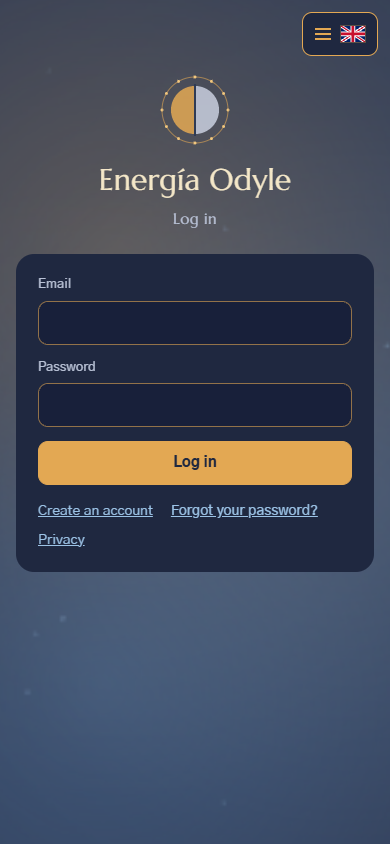
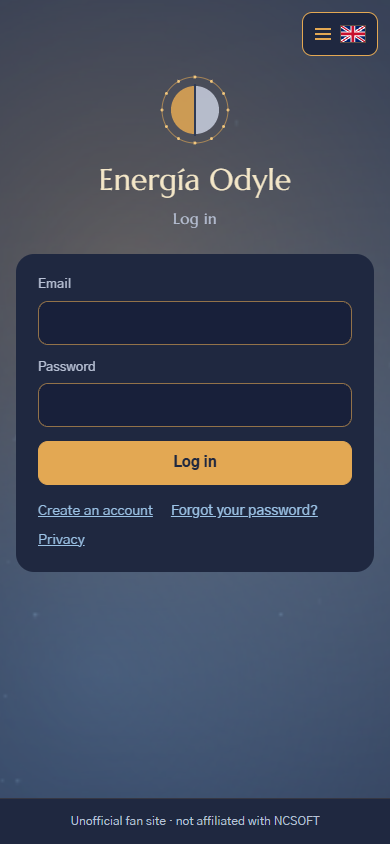
fix(ui): marcas SVG en idioma y ficha, relojes del móvil sin recortes y aviso de fans en las pantallas de cuenta
- Idioma elegido: trazo SVG creado con el DOM en lugar de «✓»; la ficha de jugador cierra con el icono «cerrar» de icons.js en lugar de «✕».
- Tira de relojes de 390 px: «Diario» como etiqueta corta (en/it/pt), el reloj del evento ocupa el hueco restante y su nombre puede ir en dos líneas; ninguna etiqueta ni valor se recorta.
- auth y privacidad: franja «Sitio de fans no oficial · no afiliado a NCSOFT», traducida y siempre visible al pie.

Changed region(s): [[0.0, 0.9242, 1.0, 1.0]]

diff --git a/index.html b/index.html
@@ -104,10 +104,15 @@
   .clock-strip { position: sticky; top: 0; z-index: 14; display: flex; overflow-x: auto; overscroll-behavior-x: contain; scrollbar-width: none;
     padding: 8px 16px; background: var(--bg-2); border-bottom: 1px solid color-mix(in srgb, var(--gold) 18%, transparent); }
   .clock-strip::-webkit-scrollbar { display: none; }
-  /* all three clocks fit at 390 px: they share the width (112 px at least), labels may truncate, values never clip */
-  .clock-strip .clocks { flex: 1 1 auto; min-width: 0; gap: 6px; }
-  .clock-strip .ck { flex: 1 1 112px; min-width: 112px; padding: 0 10px; }
-  .clock-strip .ck .k { max-width: 100%; letter-spacing: .08em; }
+  .ck .k-short { display: none; }
+  /* all three clocks fit at 390 px and no label is cut: the daily reset says «Diario», the event clock takes the room
+     left by the other two and its name may wrap onto a second line; values never clip */
+  .clock-strip .clocks { flex: 1 1 auto; min-width: 0; gap: 6px; align-items: stretch; }
+  .clock-strip .ck { flex: 0 0 auto; min-width: 0; height: auto; padding: 4px 10px; }
+  .clock-strip .ck[data-clock="event"] { flex: 1 1 0; }
+  .clock-strip .ck .k { max-width: none; overflow: visible; white-space: normal; text-overflow: clip; overflow-wrap: anywhere; line-height: 1.1; letter-spacing: .06em; }
+  .clock-strip .ck .k-long { display: none; }
+  .clock-strip .ck .k-short { display: inline; }
   .clock-strip .ck .v { font-size: 17px; }
   /* «En curso» stays for screen readers; on the strip the value turns to the accent instead */
   .clock-strip .ck .v .live { position: absolute; width: 1px; height: 1px; overflow: hidden; clip-path: inset(50%); white-space: nowrap; }
@@ -831,7 +836,7 @@
   <div class="bar-right" id="bar-right">
     <div class="clocks" id="clocks">
       <button type="button" class="ck" data-clock="refill"><small class="k" id="ck-refill-k">+30 OD en</small><b class="v" id="next-tick">—</b></button>
-      <button type="button" class="ck reset" data-clock="daily"><small class="k">Reinicio diario</small><b class="v">—</b></button>
+      <button type="button" class="ck reset" data-clock="daily"><small class="k"><span class="k-long">Reinicio diario</span><span class="k-short">Diario</span></small><b class="v">—</b></button>
       <button type="button" class="ck" data-clock="event"><small class="k">Próximo evento</small><b class="v"><span class="live" hidden>En curso</span><span class="t">—</span></b></button>
     </div>
     <button type="button" class="clocks-btn" id="clocks-btn">Relojes <span class="caret" data-icon="desplegar" aria-hidden="true"></span></button>

diff --git a/web/auth.css b/web/auth.css
@@ -31,13 +31,14 @@ html { font-synthesis: none; }
 body {
   margin: 0;
   min-height: 100vh;
+  display: flex; flex-direction: column;
   background: var(--bg);
   color: var(--fg);
   font-family: var(--font-body);
   font-size: 15px;
   line-height: 1.45;
 }
-.auth { max-width: 420px; margin-inline: auto; padding: 48px 16px 56px; display: flex; flex-direction: column; gap: 12px; }
+.auth { flex: 1 0 auto; width: 100%; max-width: 420px; margin-inline: auto; padding: 48px 16px 56px; display: flex; flex-direction: column; gap: 12px; }
 h1 {
   font-family: var(--font-display); font-weight: 400; font-size: clamp(1.9rem, 7vw, 2.4rem); line-height: 1.05; margin: 0;
   letter-spacing: 0; color: var(--fg); text-align: center;
@@ -105,7 +106,8 @@ button.link { background: none; border: 0; padding: 0; min-height: 0; color: var
 }
 .lang-list button:hover, .lang-list button:focus-visible { background: var(--hover); }
 .lang-list button[aria-checked="true"] { color: var(--gold-bright); }
-.lang-list button[aria-checked="true"]::after { content: "✓"; margin-left: auto; color: var(--gold); }
+.lang-list .check { margin-left: auto; width: 18px; height: 18px; flex: none; fill: none; stroke: var(--gold); stroke-width: 2.25; stroke-linecap: round; stroke-linejoin: round; visibility: hidden; }
+.lang-list button[aria-checked="true"] .check { visibility: visible; }
 /* Política de privacidad (/privacidad): columna de lectura más ancha que las páginas de cuenta. */
 .auth.privacy { max-width: 720px; }
 .privacy article { background: var(--glass); border: none; border-radius: 18px; padding: 24px 22px; display: flex; flex-direction: column; gap: 10px; line-height: 1.65; }
@@ -115,3 +117,6 @@ button.link { background: none; border: 0; padding: 0; min-height: 0; color: var
 .privacy .back { margin-top: 24px; }
 .privacy .back a { display: inline-flex; align-items: center; min-height: 44px; }
 @media (max-width: 480px) { .auth { padding-top: 72px; } }
+/* Aviso de fans: la misma franja que el pie de la página principal, siempre visible. */
+.fan-foot { position: relative; z-index: 1; padding: 14px 16px; text-align: center; background: var(--glass); border-top: 1px solid color-mix(in srgb, var(--gold) 12%, transparent); }
+.fan-note { margin: 0; font-size: .75rem; line-height: 1.4; color: var(--muted); }

diff --git a/web/auth-i18n.js b/web/auth-i18n.js
@@ -16,6 +16,7 @@
   const S = {
     en: {
       'Privacidad': 'Privacy',
+      'Sitio de fans no oficial · no afiliado a NCSOFT': 'Unofficial fan site · not affiliated with NCSOFT',
       'Al crear la cuenta aceptas la': 'By creating the account you accept the',
       'política de privacidad': 'privacy policy',
       'Política de privacidad': 'Privacy policy',
@@ -77,6 +78,7 @@
     },
     it: {
       'Privacidad': 'Privacy',
+      'Sitio de fans no oficial · no afiliado a NCSOFT': 'Sito di fan non ufficiale · non affiliato a NCSOFT',
       'Al crear la cuenta aceptas la': 'Creando l’account accetti la',
       'política de privacidad': 'politica sulla privacy',
       'Política de privacidad': 'Informativa sulla privacy',
@@ -137,6 +139,7 @@
     },
     pt: {
       'Privacidad': 'Privacidade',
+      'Sitio de fans no oficial · no afiliado a NCSOFT': 'Site de fãs não oficial · não afiliado à NCSOFT',
       'Al crear la cuenta aceptas la': 'Ao criar a conta, você aceita a',
       'política de privacidad': 'política de privacidade',
       'Política de privacidad': 'Política de privacidade',
@@ -217,6 +220,8 @@
     document.title = 'Energía Odyle · ' + t('Cuenta');
     const ns = document.querySelector('noscript p');
     if (ns) ns.textContent = t('Esta página necesita JavaScript.');
+    const fan = document.getElementById('fan-note'); // aviso de fans: siempre visible, en el idioma elegido
+    if (fan) fan.textContent = t('Sitio de fans no oficial · no afiliado a NCSOFT');
   }
 
   function setLang(code) {
@@ -294,7 +299,10 @@
       b.lang = l.code;
       const name = document.createElement('span');
       name.textContent = l.name;
-      b.append(flag(l.code), name);
+      // marca de la opción elegida: un trazo SVG (no un glifo), visible solo con aria-checked="true"
+      const check = svgEl('svg', { class: 'check', viewBox: '0 0 24 24', 'aria-hidden': 'true', focusable: 'false' });
+      check.append(svgEl('path', { d: 'M5 12.5l4.5 4.5L19 7.5' }));
+      b.append(flag(l.code), name, check);
       b.addEventListener('click', () => { setLang(l.code); close(true); });
       li.append(b);
       list.append(li);

diff --git a/web/social-profile.js b/web/social-profile.js
@@ -3,6 +3,7 @@
 // y las acciones según la relación (añadir, aceptar, cancelar, mensaje, eliminar, bloquear, denunciar).
 import { el, S, userText, personHead, miniOrb, note } from './social-dom.js';
 import { actionsFor, friendEnergy } from './social.js';
+import { iconSvg } from './icons.js';
 
 const REASONS = [['spam', S('Spam')], ['abuse', S('Insultos o acoso')], ['cheating', S('Trampas')], ['other', S('Otro motivo')]];
 
@@ -29,7 +30,7 @@ export function createProfileSheet(shared) {
     const box = el('div', { class: 'sheet-box' });
     box.append(el('div', { class: 'sheet-head' },
       el('h2', { id: 'sheet-title' }, personHead(p)),
-      el('button', { type: 'button', class: 'sheet-close', 'aria-label': S('Cerrar'), onclick: close }, '✕')));
+      el('button', { type: 'button', class: 'sheet-close', 'aria-label': S('Cerrar'), onclick: close }, iconSvg(document, 'cerrar'))));
     if (p.legion) box.append(el('p', { class: 'sheet-line' }, el('span', {}, S('Legión')), ': ', userText('span', p.legion)));
     if (p.bio) box.append(userText('p', p.bio, { class: 'sheet-bio' }));
 

diff --git a/web/social.css b/web/social.css
@@ -40,7 +40,8 @@
 .sheet-box { padding: 16px; display: flex; flex-direction: column; gap: 12px; }
 .sheet-head { display: flex; align-items: flex-start; justify-content: space-between; gap: 12px; }
 .sheet-head h2 { font-size: 1rem; min-width: 0; }
-.sheet-close { min-height: 36px; padding: 4px 10px; }
+.sheet-close { min-height: 36px; padding: 4px 10px; display: inline-grid; place-items: center; }
+.sheet-close .i { width: 18px; height: 18px; }
 .sheet-bio, .sheet-line { margin: 0; color: var(--muted); overflow-wrap: anywhere; }
 .energy-list { list-style: none; margin: 0; padding: 0; display: flex; flex-direction: column; gap: 6px; }
 .energy-list li { display: flex; align-items: center; gap: 10px; }

diff --git a/i18n-strings.js b/i18n-strings.js
@@ -999,3 +999,11 @@ const EVENTOS = {
   pt: { 'Empieza en': 'Começa em', 'En curso · termina en': 'Em andamento · termina em' },
 };
 for (const l of Object.keys(EVENTOS)) for (const [k, v] of Object.entries(EVENTOS[l])) if (!(k in STRINGS[l])) STRINGS[l][k] = v;
+
+// Phone clock strip: the daily reset's short label, so no clock label is cut (2026-10-28).
+const STRIP = {
+  en: { Diario: 'Daily' },
+  it: { Diario: 'Giornaliero' },
+  pt: { Diario: 'Diário' },
+};
+for (const l of Object.keys(STRIP)) for (const [k, v] of Object.entries(STRIP[l])) if (!(k in STRINGS[l])) STRINGS[l][k] = v;

diff --git a/web/auth.html b/web/auth.html
@@ -26,6 +26,7 @@
     <noscript><p class="error">Esta página necesita JavaScript.</p></noscript>
   </section>
 </main>
+<footer class="fan-foot"><p class="fan-note" id="fan-note">Sitio de fans no oficial · no afiliado a NCSOFT</p></footer>
 <script src="auth-i18n.js"></script>
 <script src="auth.js"></script>
 <script type="module" src="sky-boot.js"></script>

diff --git a/web/privacidad.html b/web/privacidad.html
@@ -25,6 +25,7 @@
   </article>
   <p class="back"><a href="/" id="back">Volver a Odyle Tracker</a></p>
 </main>
+<footer class="fan-foot"><p class="fan-note" id="fan-note">Sitio de fans no oficial · no afiliado a NCSOFT</p></footer>
 <script src="auth-i18n.js"></script>
 <script src="privacy-text.js"></script>
 <script src="privacy.js"></script>
